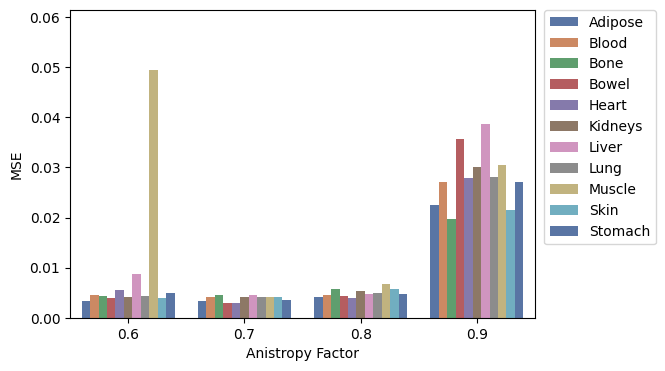
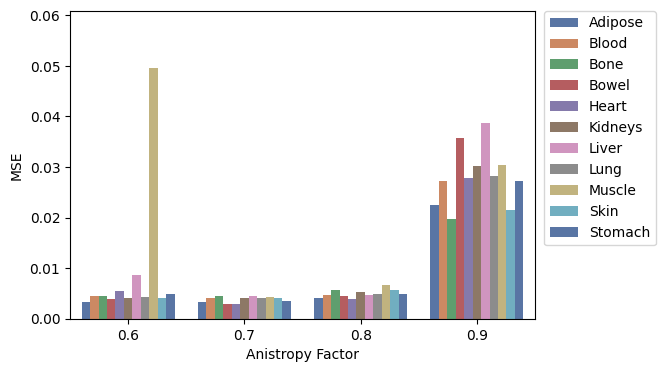
update figures

diff --git a/Fig_show_testing_results.py b/Fig_show_testing_results.py
@@ -60,10 +60,10 @@ df_FoV = df_FoV.append(df1, ignore_index=True)
 df_Res = df5.append(df2, ignore_index=True)
 df_Res = df_Res.append(df4, ignore_index=True)
 
-df = df1.append(df2, ignore_index=True)
-df = df.append(df3,  ignore_index=True)
-df = df.append(df4,  ignore_index=True)
+df = df3.append(df2, ignore_index=True)
+df = df.append(df1,  ignore_index=True)
 df = df.append(df5,  ignore_index=True)
+df = df.append(df4,  ignore_index=True)
 
 # --------------------------------------------------------------------------------------
 # line plot of each dataset: Error vs g, Error vs leakage
@@ -243,7 +243,7 @@ palette = {"0.6x0.6 @ 0.002":"tab:purple",
 fig, ax = plt.subplots(figsize=(4,3), dpi=300)
 ax = sns.pointplot(x="g", y="Error", hue="ImgSize", data=df_FoV, markers='.', capsize=0.1, errwidth=1, palette=palette)
 ax.legend(title='', loc='upper left')
-ax.set_ylim(0, 0.06)
+#ax.set_ylim(0, 0.06)
 plt.xlabel('Anistropy Factor')
 plt.ylabel('MSE')
 figFile = os.path.join(output_path, f'Test_Results_g_FoV.png')
@@ -297,7 +297,7 @@ palette = {"0.4x0.4 @ 0.001":"tab:orange",
 fig, ax = plt.subplots(figsize=(4,3), dpi=300)
 ax = sns.pointplot(x="g", y="Error", hue="ImgSize", data=df_Res, markers='.', capsize=0.1, errwidth=1, palette=palette)
 ax.legend(title='', loc='upper left')
-ax.set_ylim(0, 0.06)
+#ax.set_ylim(0, 0.06)
 plt.xlabel('Anistropy Factor')
 plt.ylabel('MSE')
 figFile = os.path.join(output_path, f'Test_Results_g_Res.png')
@@ -309,7 +309,7 @@ plt.show()
 fig, ax = plt.subplots(figsize=(4,3), dpi=300)
 ax = sns.pointplot(x="g", y="Error", hue="ImgSize", data=df, markers='.', capsize=0.1, errwidth=1)
 ax.legend(title='', loc='upper left')
-ax.set_ylim(0, 0.06)
+#ax.set_ylim(0, 0.06)
 plt.xlabel('Anistropy Factor')
 plt.ylabel('MSE')
 figFile = os.path.join(output_path, f'Test_Results_all.png')
